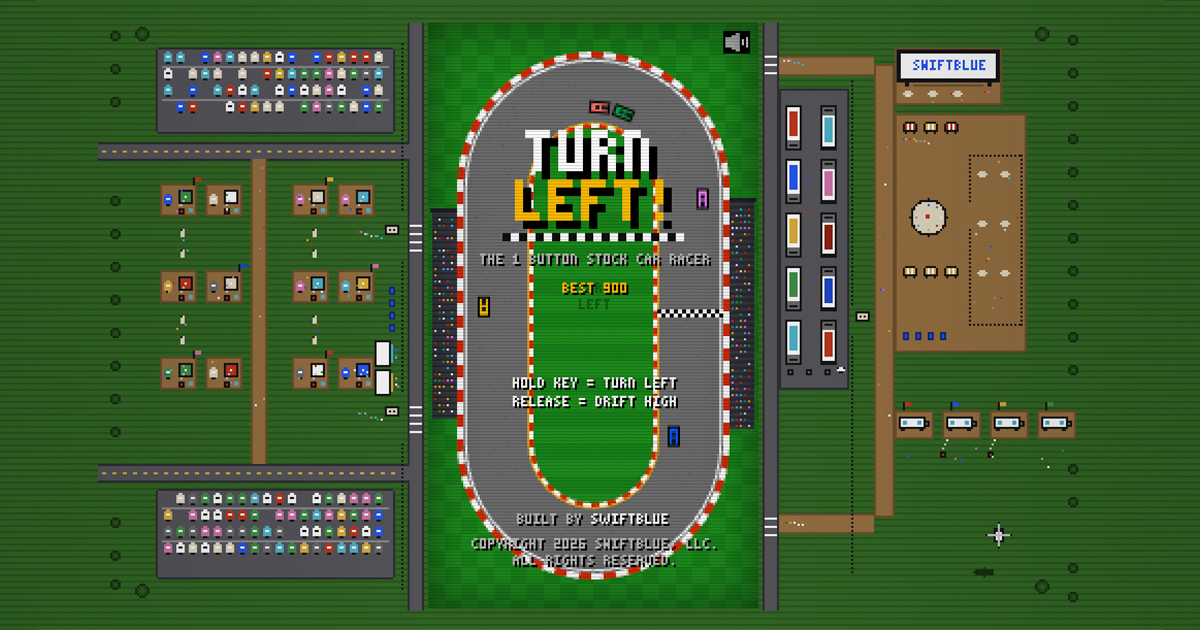
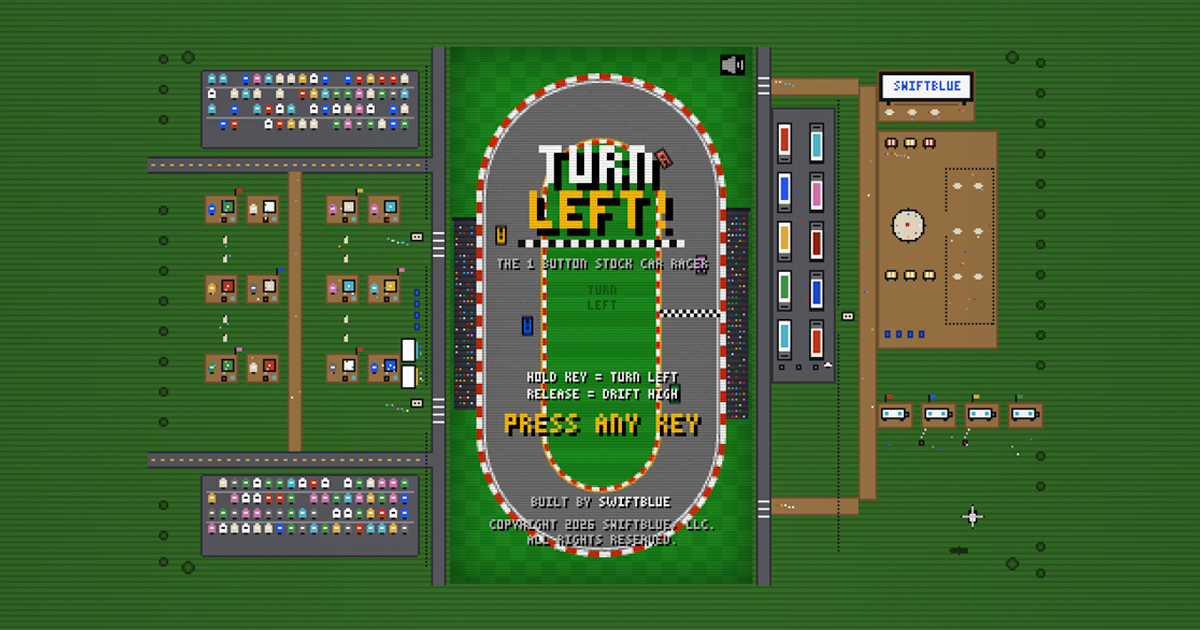
feat(builds): add Turn Left game

diff --git a/src/content.config.ts b/src/content.config.ts
@@ -15,6 +15,7 @@ const writing = defineCollection({
 
 const projectSchema = ({ image }: { image: () => any }) => z.object({
   name: z.string(),
+  pageTitle: z.string().optional(),
   summary: z.string(),
   date: z.coerce.date(),
   updated: z.coerce.date().optional(),

diff --git a/src/content/builds/turnleft.md b/src/content/builds/turnleft.md
@@ -1,0 +1,20 @@
+---
+name: "Turn Left!"
+pageTitle: "Game: Turn Left!"
+summary: "The 1-Button Stock Car Racer. Hold to carve left into the corner; let go and drift high toward the wall."
+date: 2026-07-21
+updated: 2026-07-21
+stack: ["Game", "HTML", "CSS", "JavaScript", "Canvas", "Web Audio"]
+status: live
+url: "https://playturnleft.com"
+screenshot: "../../assets/screenshots/turnleft.png"
+draft: false
+---
+
+*TURN LEFT!* — _The 1-Button Stock Car Racer_
+
+The whole game runs on a single button. Hold it to carve left into the corner; let go and drift high toward the wall. That's it. That's the whole control scheme — and somehow it's the kind of thing you tell yourself you'll play "one more lap" of at 11pm and look up an hour later.
+
+It's a top-down stock car racer with a modern-retro pixel look: chunky NES-era type, a clean limited palette, and a car that actually reads like a NASCAR machine tearing counterclockwise around the oval. No downloads, no menus to wade through, no account. Open the link on your phone or in your browser and you're racing in about two seconds.
+
+Easy to pick up, deceptively hard to run a clean line. Go turn left.